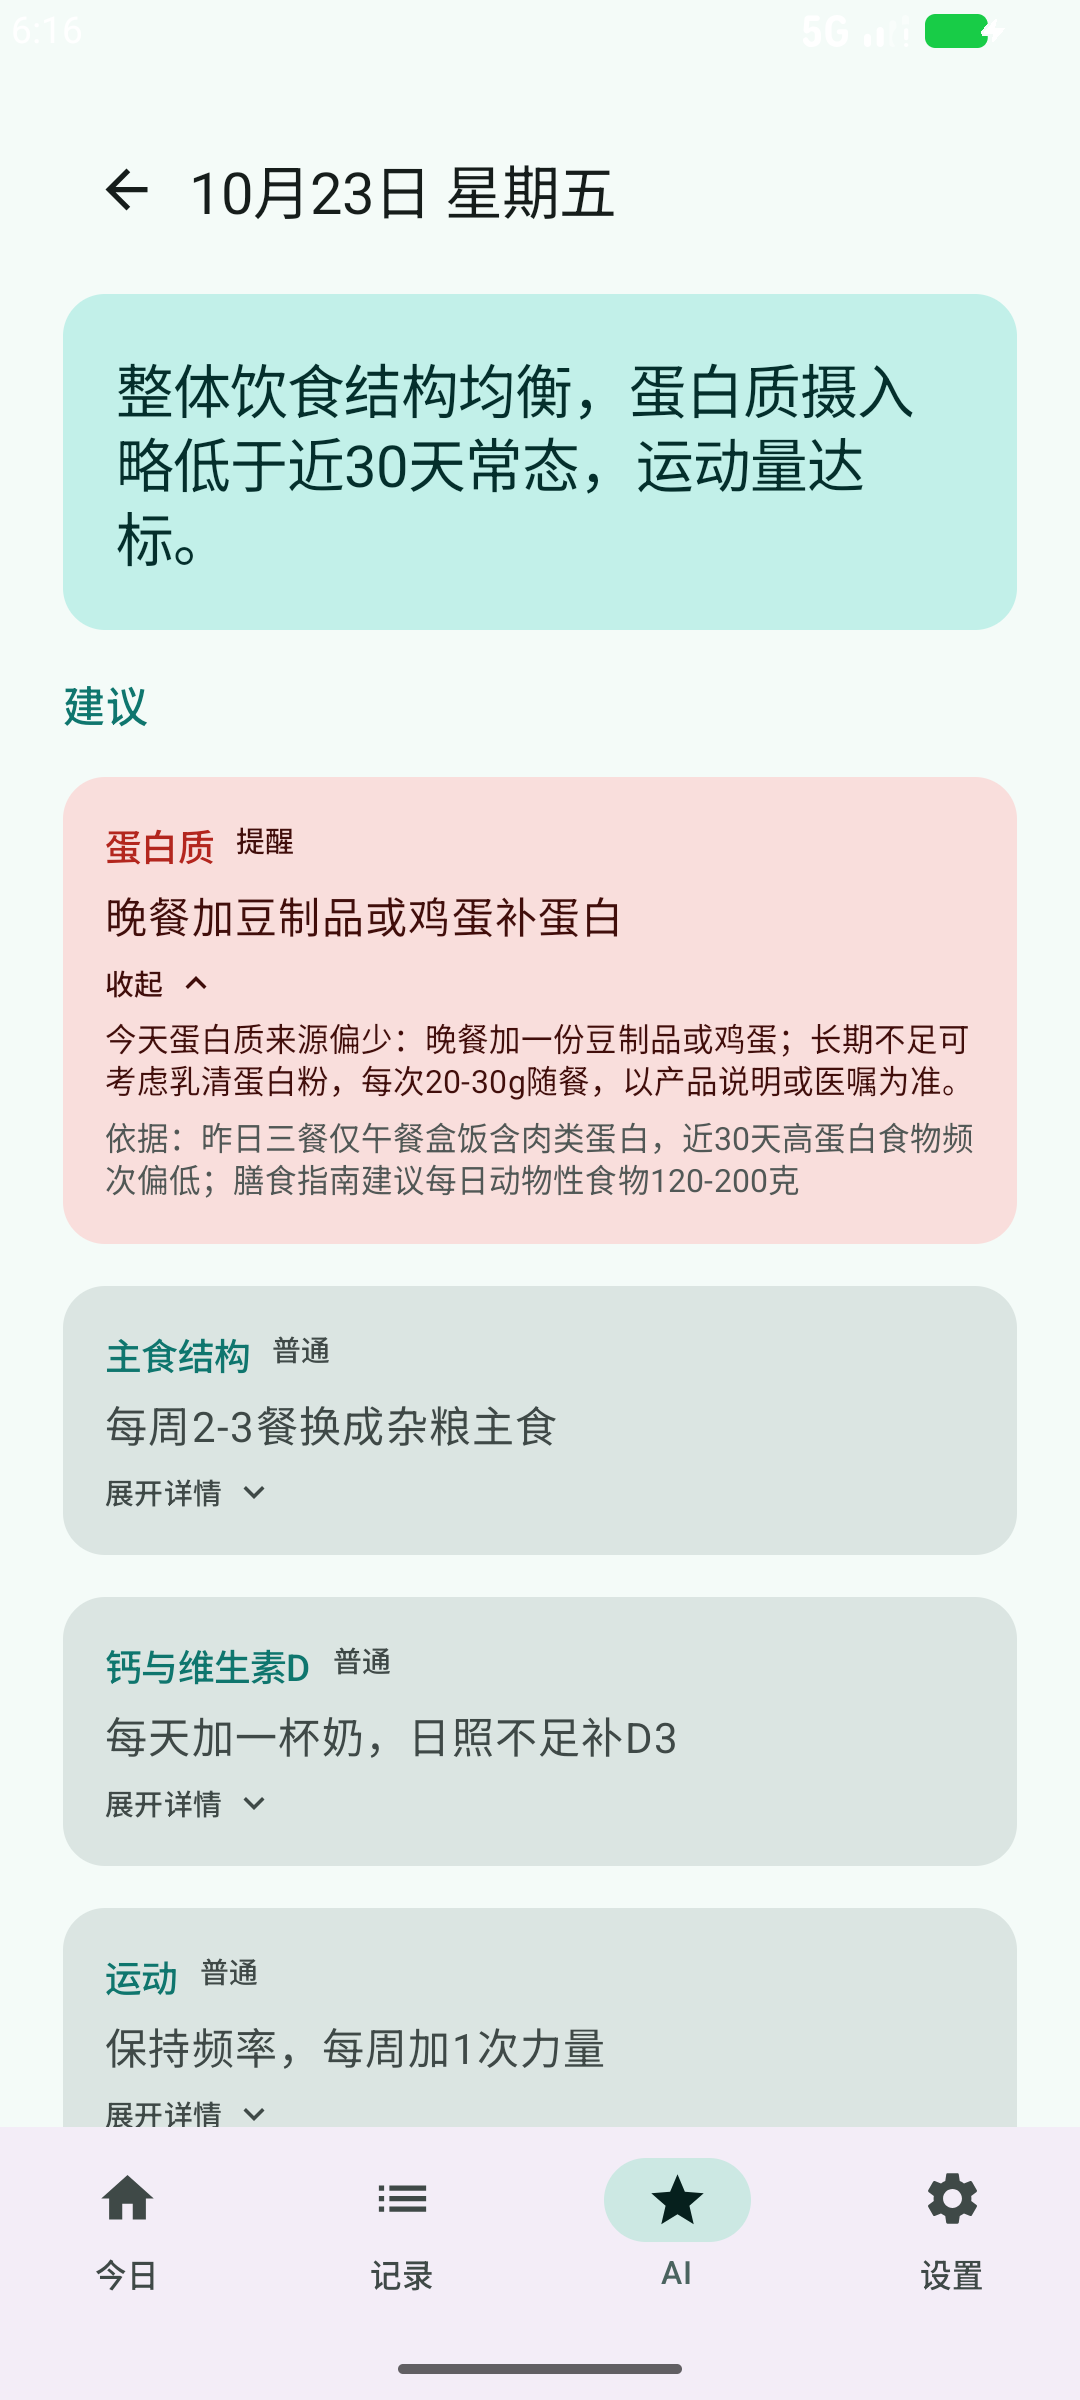
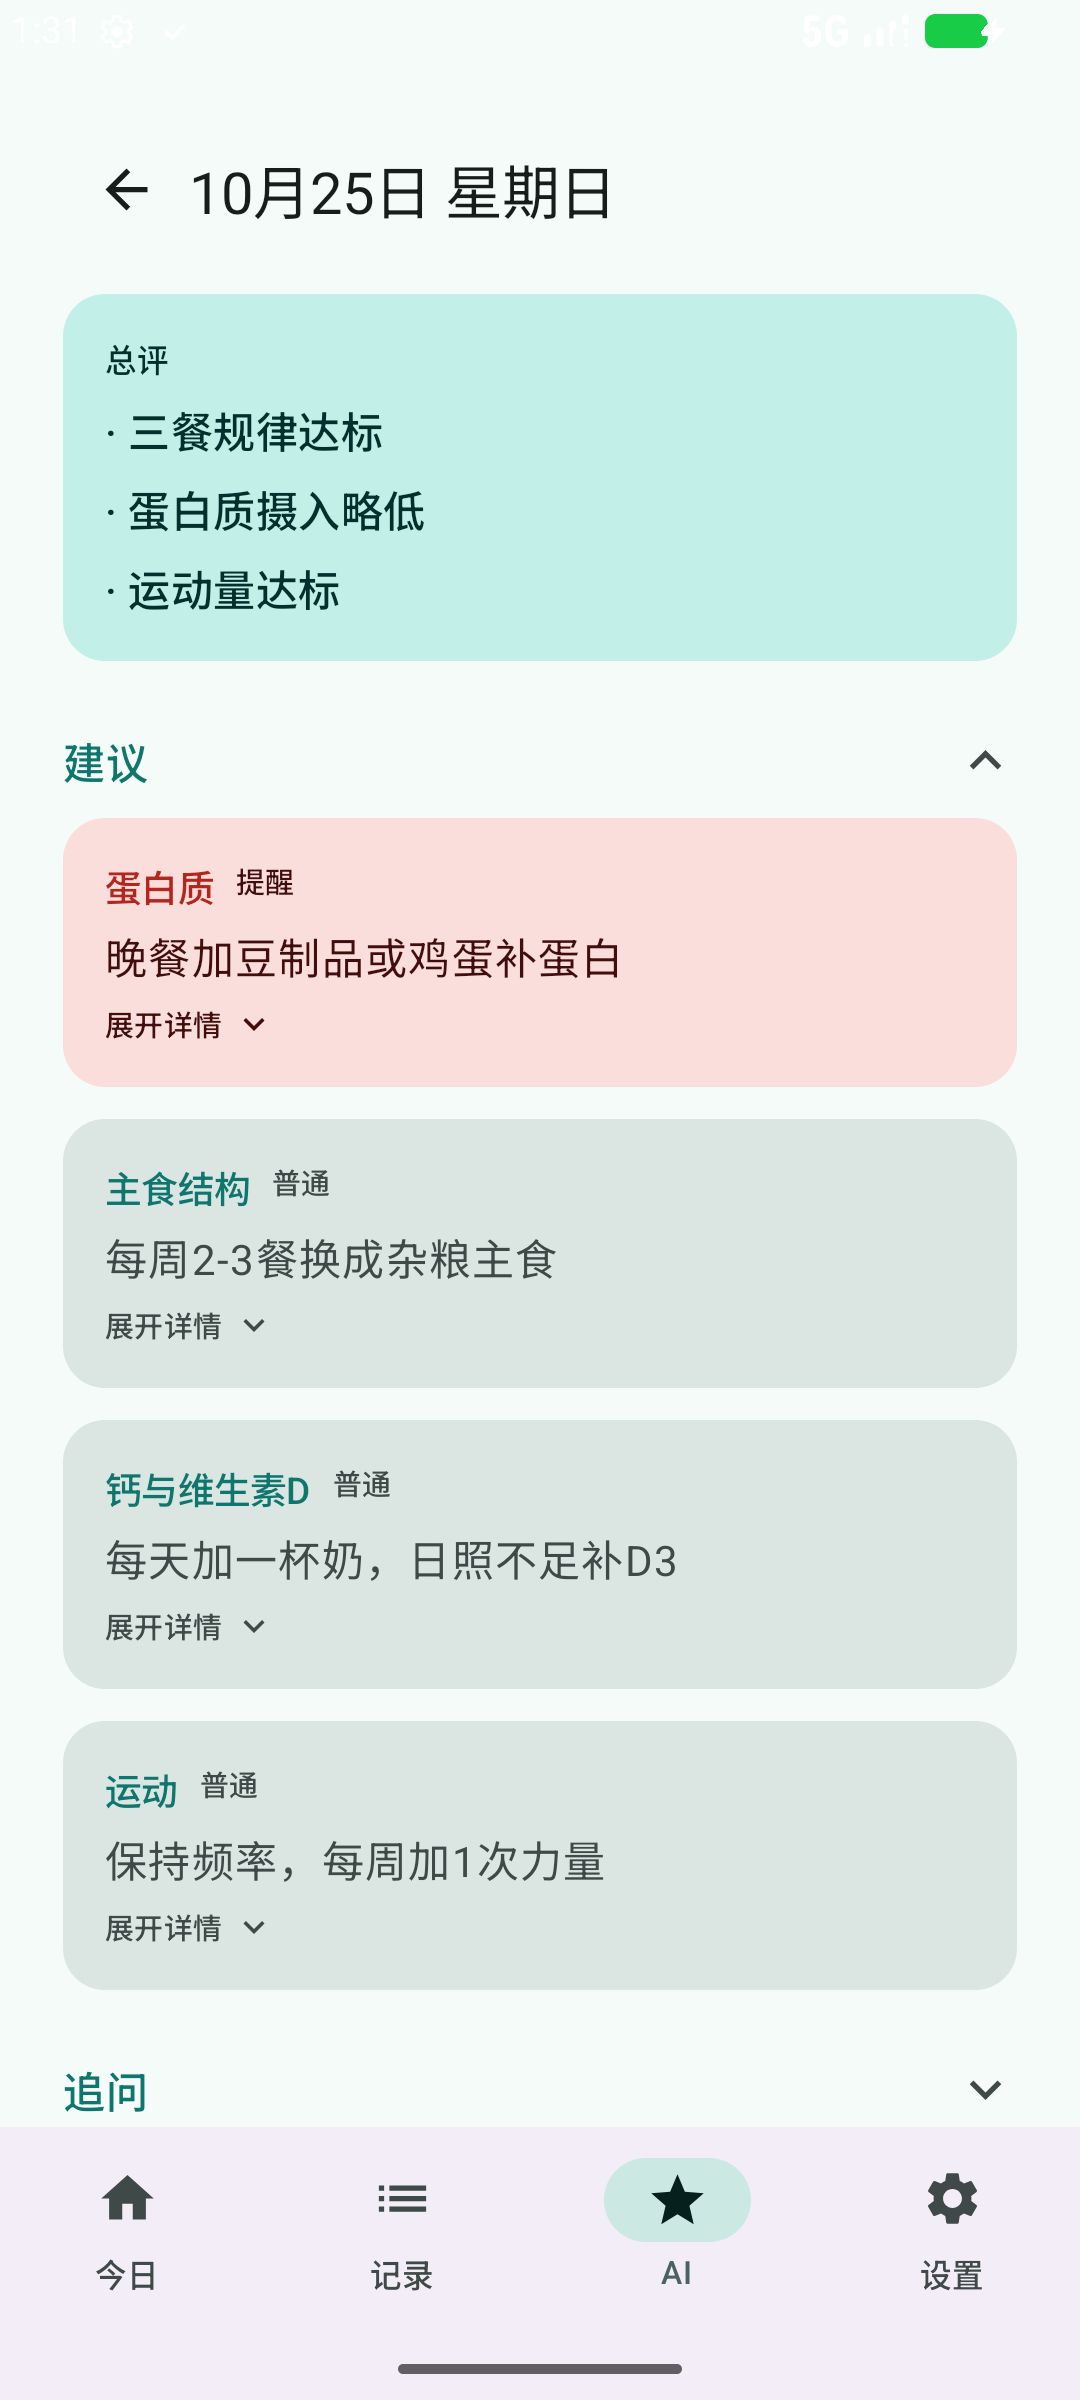
docs(readme): 补 0.4.1 门面——最近更新/计划板块与新版详情截图
「最近更新」推进到 v0.4.1（追问、提示词定制、长期习惯导向、详情
四板块、设置分组化）；「接下来的计划」移除已完成的追问机制、对齐
roadmap 当前下一步；AI 报告门面截图重拍为分点总评+四折叠板块新版。

diff --git a/README.md b/README.md
@@ -12,24 +12,25 @@
 
 ## 最近更新
 
-### v0.4.0（2026-10-24）· AI 生活建议上线
+### v0.4.1（2026-10-26）· AI 更懂你：追问、定制与长期习惯导向
 
 **新增**
 
-- **AI 每日营养报告**：每天凌晨 4:00 自动汇总前一天的饮食（含营养品成分明细）与运动，早晨无声通知查看；每条建议一行**行动摘要**（如「餐后吃橙子猕猴桃补维C」），点开才看执行细节与依据（你的数据事实 + 膳食指南推荐量）；涉及营养缺口时同时给食物来源与营养品选择（剂型、参考剂量，以产品说明或医嘱为准）
-- **接口你说了算**：OpenAI 兼容三要素自己填（智谱 / DeepSeek / OpenAI 等通用），「测试连接」一键验证；欠费、断网都不怕——恢复后自动补交缺失日期的「回顾报告」
-- **隐私可亲手核验**：API Key 仅存本机（卸载即清除）、不随备份导出、只发往你填写的这一个地址；每份报告都能展开「本次发送的数据」逐字查看发了什么
+- **AI 追问**：报告可附带 AI 就不完整信息提出的问题（身高体重、昨晚睡眠等），AI 页横幅直达、详情内顺手作答，回答随次日报告提交——档案型答案答一次长期携带、AI 不再重复问；「个人档案」与「问答历史」全程透明可改可回看
+- **提示词应用内定制（高级）**：设置 → AI 接口 → 提示词定制——完整 system 提示词可编辑，保存即生效、一键恢复默认、随备份导出；改动 JSON 输出格式约定会触发红色警告二次确认（防改坏报告拆解）
+- **长期习惯导向**：上行数据新增「近90天长期概要」（与近30天概要双窗口），建议以可长期坚持的习惯养成为主、单日显著异常纠正为辅
 
-**修复**
+**改进**
 
-- 无（本版为纯新增功能版本）
+- **报告详情重排**：总评改为分点概括卡，内容整理为建议 / 追问 / 分析 / 对话记录四个可折叠板块，一屏看清结构
+- **设置页分组化**：七段平铺长页改为「六组入口 + 子页面」，带实时状态摘要
 
 > 0.4 系列各版本的完整更新与开发记录：[docs/release-notes/0.4.md](docs/release-notes/0.4.md) · 全部历史版本：[CHANGELOG.md](CHANGELOG.md) · 第一次使用？看[新手上手指南](docs/getting-started.md)
 
 ## 接下来的计划
 
-- **AI 追问机制（0.4.1）**：AI 可就不完整的信息（身高体重、饮食目标等）主动向你提问，回答随次日数据一并提交，不阻塞当日报告——接口已在 0.4.0 预留
-- 报告质量持续调优（提示词可按文档定制，无需改代码结构）
+- 报告质量与追问质量持续观察调优（提示词在应用内即可定制，无需改代码）
+- 待办池：NRV 包装食品营养成分表录入、UI 精修专项、AI 压缩滚动档案等
 
 > 更多待办与远景规划见 [docs/roadmap.md](docs/roadmap.md)。
 
@@ -43,9 +44,9 @@
 |:---:|:---:|
 | ![滚轮](docs/screenshots/readme/time-wheel.png) | ![双保险](docs/screenshots/readme/wake-guide.png) |
 
-| AI 每日报告：行动摘要一屏可扫 | 展开详情：执行细节 + 依据 |
+| AI 每日报告：分点总评 + 四大板块 | 展开建议：行动摘要 + 依据折叠 |
 |:---:|:---:|
-| ![AI报告](docs/screenshots/readme/ai-report.png) | ![展开详情](docs/screenshots/readme/ai-report-expanded.png) |
+| ![AI报告](docs/screenshots/readme/ai-report.png) | ![展开建议](docs/screenshots/readme/ai-report-expanded.png) |
 
 ## 构建与安装
 
